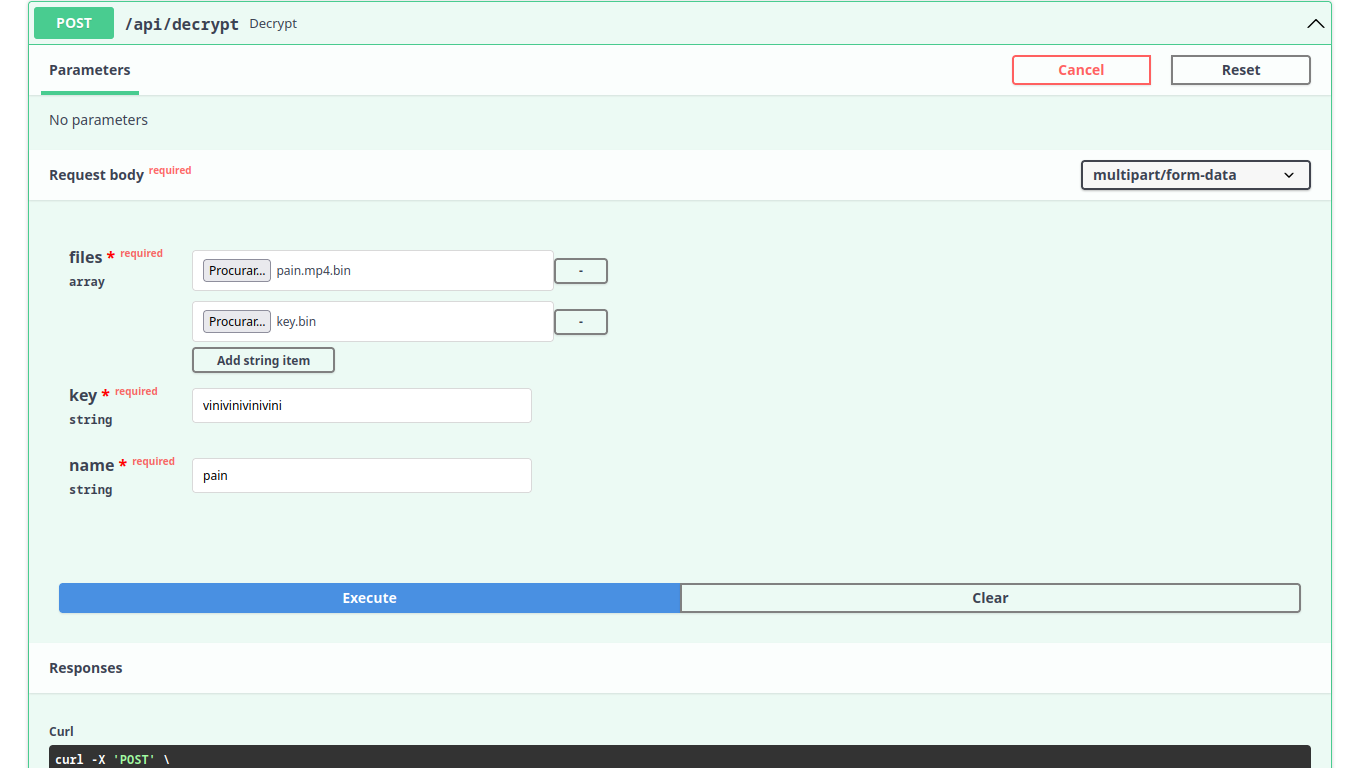
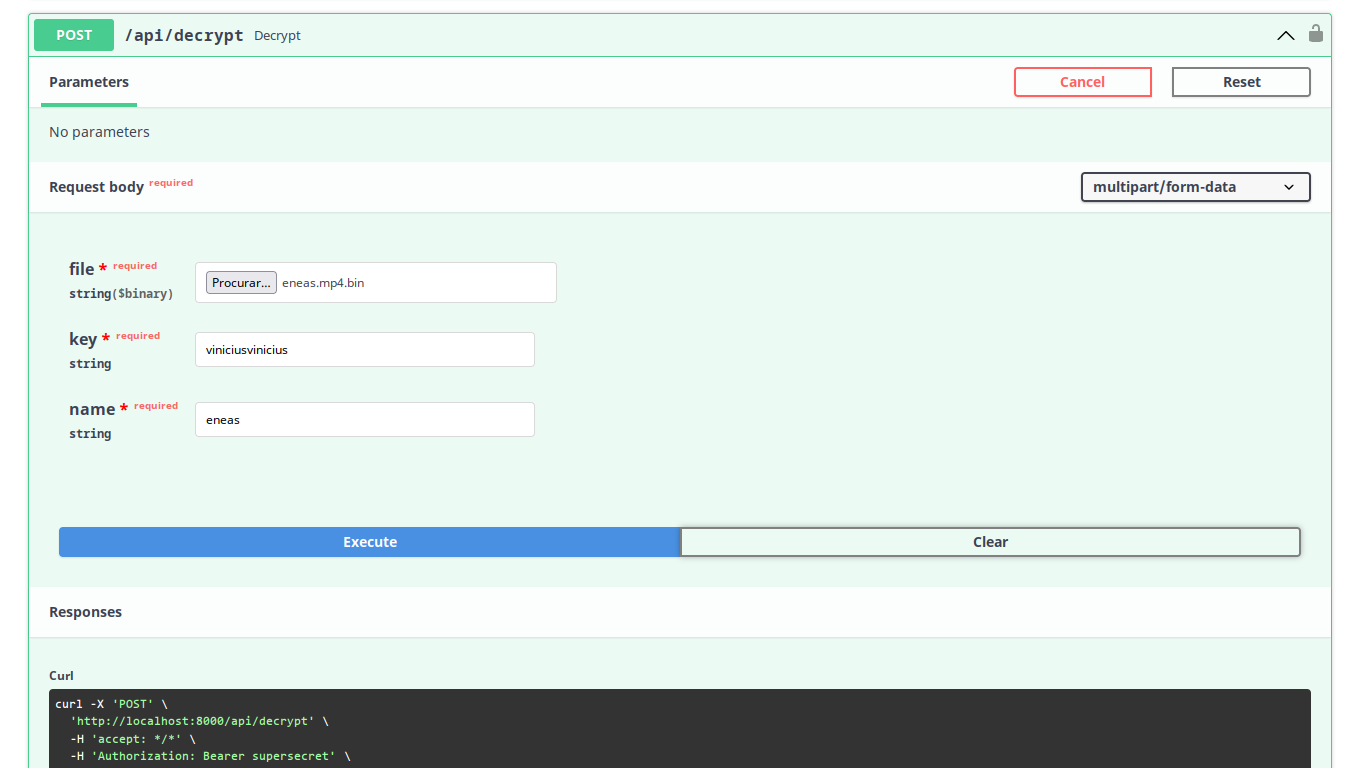
update docs

diff --git a/README.md b/README.md
@@ -2,6 +2,12 @@
 - Encrypt files  with python lib pycryptodome.
 - Django-Ninja, encrypting mp4 files with symmetric key.
 
+
+## Environment Variables
+- create a file called .env, add this line:
+```KEY=your_secretkey```
+
+
 ## Install Dependencies
 ```pip install -r requirements.txt```
 
@@ -10,20 +16,26 @@
 ```uvicorn core.asgi:application --reload```
 
 ## EndPoints
-- Using the **post** method to send the mp4 file and the password (size 16). A zip file containing the encrypted file and the verification key (a 32 bytes file) is returned.
+- Using the **post** method to send the mp4 file and the password (size 16). returns an encrypted .bin file.
 **`http://localhost:8000/api/encrypt`**
 
 
-- **decrypt file**, Unzip the file and make a post, attaching the encrypted file and the key.bin (in that order), along with the password and the name of the mp4 file.
+- **decrypt file**, Using the **post** method to send the encrypted file with the key. returns the decrypted video.
 **`http://localhost:8000/api/decrypt`**
 
 
 ## Docs openapi
 
+**AUTH**
+- authenticate with your secretkey
+---
+![encryt](docs/auth.png)
+---
+
 **ENCRYPT**
 ---
 ![encryt](docs/encrypt.png)
-![encryt zip](docs/zip.png)
+![encryt zip](docs/file.png)
 ---
 **DECRYPT**
 ---
